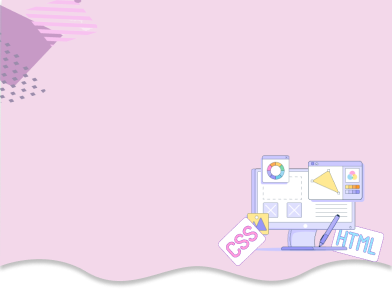
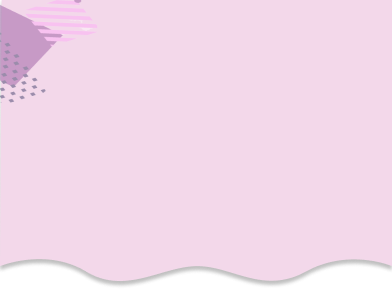
replace images header

Changed region(s): [[0.551, 0.5276, 0.9796, 0.931]]

diff --git a/components/Header.vue b/components/Header.vue
@@ -4,6 +4,7 @@
       Olá! Eu sou <span class="header__name">Thais Martins</span> e sou
       Desenvolvedora Frontend
     </h1>
+    <div class="header__background"></div>
   </div>
 </template>
 
@@ -26,6 +27,24 @@
 
   @include for-phone-only {
     background-image: url('~/assets/background-mobile.png');
+  }
+
+  &__background {
+    position: absolute;
+    right: 40px;
+    top: 80px;
+    height: 15em;
+    width: 20em;
+    background-size: contain;
+    background-repeat: no-repeat;
+    background-image: url('~/assets/vector-header.png');
+
+    @include for-phone-only {
+      right: 10px;
+      top: 180px;
+      height: 10em;
+      width: 10em;
+    }
   }
 
   &__content {
